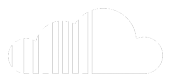
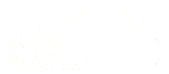
more changes

diff --git a/app/assets/stylesheets/bootstrap_and_customization.css.scss b/app/assets/stylesheets/bootstrap_and_customization.css.scss
@@ -90,11 +90,11 @@ margin-top: -28px;
 }
 
 .soundcloudlogo:hover {
-  content: url(http://i.imgur.com/UEFyBCi.png);
+  content: url(http://i.imgur.com/7UTZzy2.png);
   vertical-align: middle;
   margin-top: -28px;
   height: 82px;
-  width: 205px;
+  width: 169px;
 }
 
 .shop {
